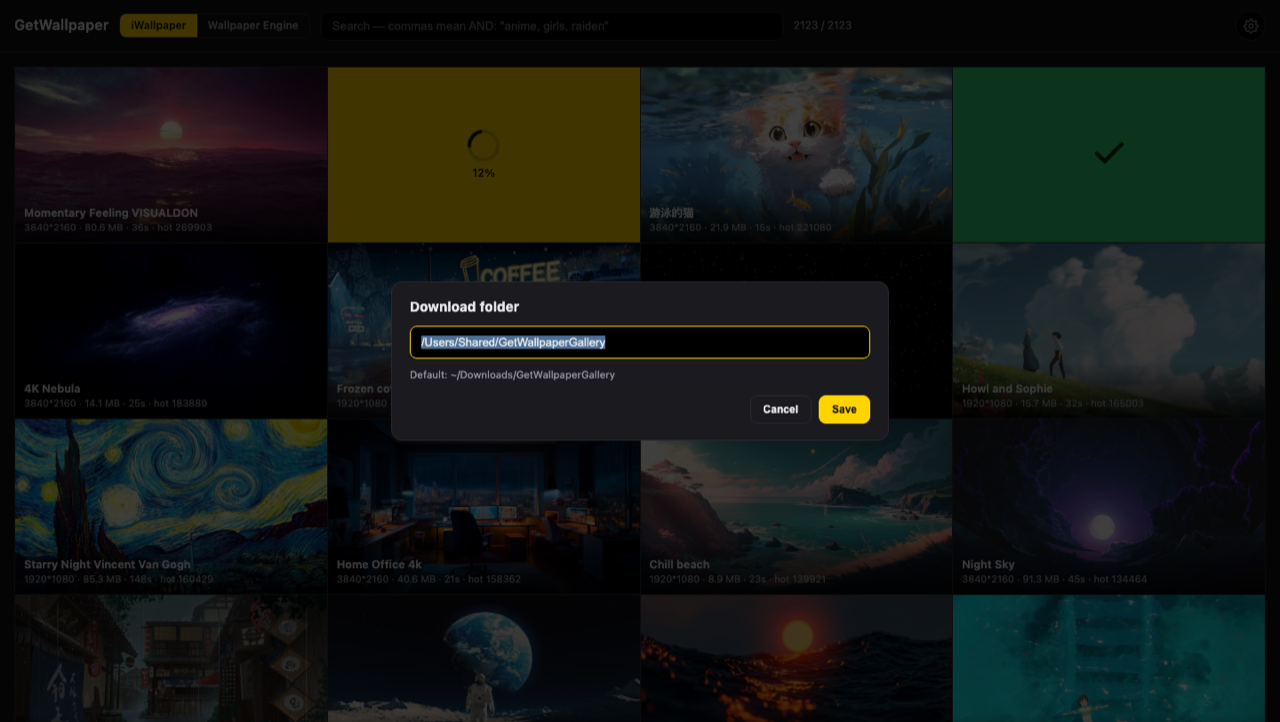
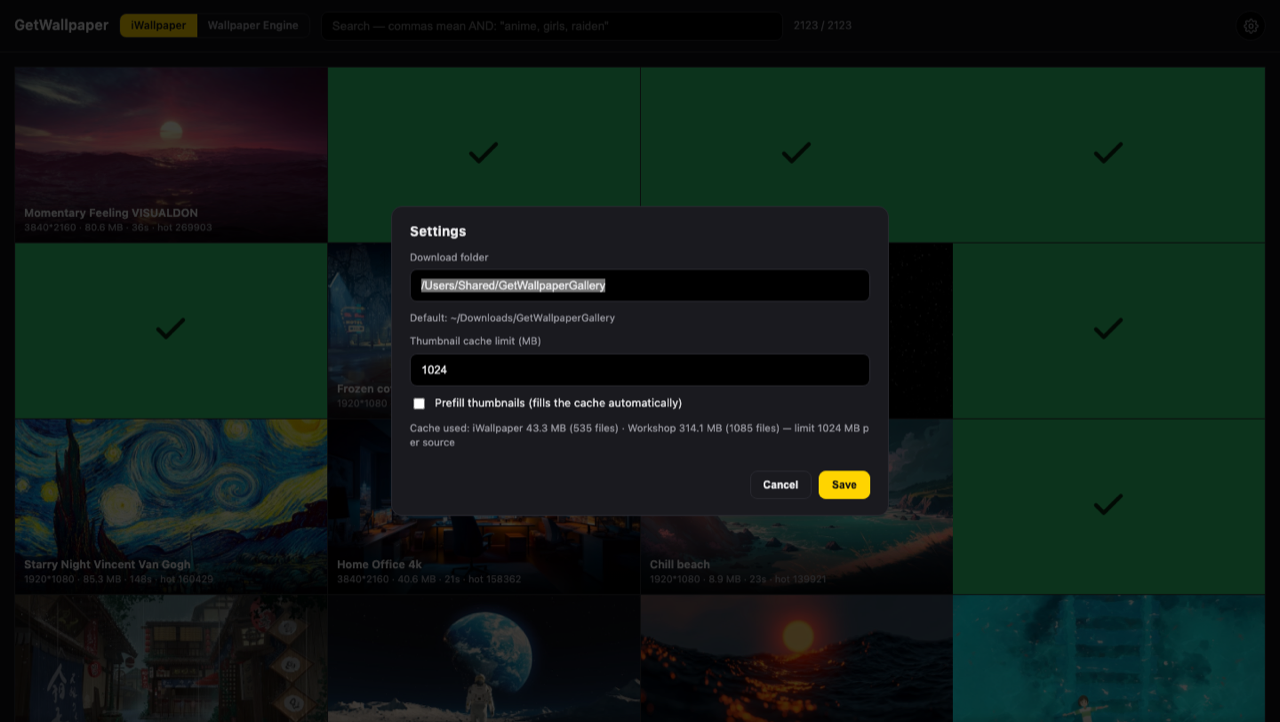
Settings: thumbnail cache limit + background prefill; README (v0.2.0)

diff --git a/getw/webui.py b/getw/webui.py
@@ -94,6 +94,9 @@ def _load_settings():
 SETTINGS = _load_settings()
 DOWNLOAD_ROOT = os.path.abspath(os.path.expanduser(
     SETTINGS.get("download_root") or DEFAULT_DOWNLOAD_ROOT))
+THUMB_CAP_MB = max(64, int(SETTINGS.get("thumb_cap_mb") or 1024))
+THUMB_CAP = THUMB_CAP_MB * 1024 * 1024
+PREFILL_ENABLED = bool(SETTINGS.get("prefill_thumbs"))
 
 
 def ensure_download_root():
@@ -112,18 +115,145 @@ def set_download_root(path):
     os.remove(probe)
     DOWNLOAD_ROOT = path
     SETTINGS["download_root"] = path
+    _save_settings()
+    return path
+
+
+def _save_settings():
     tmp = SETTINGS_PATH + ".tmp"
     with open(tmp, "w") as fh:
         json.dump(SETTINGS, fh, indent=1)
     os.replace(tmp, SETTINGS_PATH)
-    return path
 
+
+def _dir_stats(path):
+    total = count = 0
+    try:
+        with os.scandir(path) as it:
+            for entry in it:
+                try:
+                    if entry.is_file():
+                        count += 1
+                        total += entry.stat().st_size
+                except OSError:
+                    pass
+    except OSError:
+        pass
+    return {"mb": round(total / 1e6, 1), "count": count}
+
+
+PF = {"running": False, "done": 0, "total": 0, "source": "", "error": None}
+_PF_LOCK = threading.Lock()
+
+
+def _pf_set(**kw):
+    with _PF_LOCK:
+        PF.update(kw)
+
+
+def _pf_active():
+    return PF.get("running") and SETTINGS.get("prefill_thumbs")
+
+
+def start_prefill():
+    with _PF_LOCK:
+        if PF.get("running"):
+            return dict(PF)
+        PF.update(running=True, done=0, total=0, source="iWallpaper",
+                  error=None)
+    threading.Thread(target=_prefill_worker, daemon=True).start()
+    return dict(PF)
+
+
+def stop_prefill():
+    _pf_set(running=False)
+
+
+def _prefill_worker():
+    from concurrent.futures import ThreadPoolExecutor
+
+    def fetch_iw(rec):
+        try:
+            fetch_thumbnail(rec["id"])
+        except Exception:
+            pass
+
+    def fetch_we(rec):
+        try:
+            we_source.thumbnail(rec["id"], rec["preview"])
+        except Exception:
+            pass
+
+    try:
+        _pf_set(source="iWallpaper", total=len(RECORDS), done=0)
+        for i in range(0, len(RECORDS), 16):
+            if not _pf_active():
+                return
+            if _dir_stats(THUMB_DIR)["mb"] * 1e6 >= THUMB_CAP:
+                break
+            batch = RECORDS[i:i + 16]
+            with ThreadPoolExecutor(max_workers=8) as pool:
+                list(pool.map(fetch_iw, batch))
+            _pf_set(done=min(len(RECORDS), PF.get("done", 0) + len(batch)))
+
+        items = we_source.catalog(rating="Everyone")
+        _pf_set(source="Wallpaper Engine", total=len(items), done=0)
+        for i in range(0, len(items), 16):
+            if not _pf_active():
+                return
+            if _dir_stats(we_source.THUMB_DIR)["mb"] * 1e6 >= THUMB_CAP:
+                break
+            batch = items[i:i + 16]
+            with ThreadPoolExecutor(max_workers=8) as pool:
+                list(pool.map(fetch_we, batch))
+            _pf_set(done=min(len(items), PF.get("done", 0) + len(batch)))
+    except Exception as exc:
+        _pf_set(error=str(exc))
+    finally:
+        _pf_set(running=False)
+
+
+def settings_payload():
+    return {
+        "download_root": DOWNLOAD_ROOT,
+        "default_root": DEFAULT_DOWNLOAD_ROOT,
+        "thumb_cap_mb": THUMB_CAP_MB,
+        "prefill_thumbs": bool(SETTINGS.get("prefill_thumbs")),
+        "thumb_cache": {
+            "iw": _dir_stats(THUMB_DIR),
+            "we": _dir_stats(we_source.THUMB_DIR),
+        },
+        "prefill": dict(PF),
+    }
+
+
+def update_settings(payload):
+    global THUMB_CAP, THUMB_CAP_MB
+    if payload.get("download_root"):
+        set_download_root(payload["download_root"])
+    if payload.get("thumb_cap_mb") is not None:
+        mb = int(payload["thumb_cap_mb"])
+        if mb < 64:
+            raise ValueError("cache size must be at least 64 MB")
+        THUMB_CAP_MB = mb
+        THUMB_CAP = mb * 1024 * 1024
+        SETTINGS["thumb_cap_mb"] = mb
+        enforce_cache_cap(THUMB_DIR, THUMB_CAP)
+        enforce_cache_cap(we_source.THUMB_DIR, THUMB_CAP)
+    if payload.get("prefill_thumbs") is not None:
+        enabled = bool(payload["prefill_thumbs"])
+        SETTINGS["prefill_thumbs"] = enabled
+        if enabled:
+            start_prefill()
+        else:
+            stop_prefill()
+    _save_settings()
+    return settings_payload()
 
 os.makedirs(THUMB_DIR, exist_ok=True)
 os.makedirs(INDEX_DIR, exist_ok=True)
 ensure_download_root()
 
-THUMB_CAP = int(os.environ.get("THUMB_CAP_BYTES", 1 << 30))  # 1 GiB per cache
 _CACHE_LOCK = threading.Lock()
 
 
@@ -683,10 +813,15 @@ PAGE = r"""<!doctype html>
                 border:1px solid var(--line); border-radius:12px;
                 padding:18px 20px; display:flex; flex-direction:column; gap:10px; }
   #cfg h2 { margin:0; font-size:15px; }
-  #cfg input { width:100%; padding:10px 12px; border-radius:8px;
-               border:1px solid var(--line); background:#000; color:var(--txt);
-               outline:none; font-size:13px; }
+  #cfg input[type=text], #cfg input[type=number] { width:100%; padding:10px 12px;
+               border-radius:8px; border:1px solid var(--line); background:#000;
+               color:var(--txt); outline:none; font-size:13px; }
   #cfg input:focus { border-color:var(--yellow); }
+  #cfg .field { display:flex; flex-direction:column; gap:5px;
+                color:var(--dim); font-size:11.5px; }
+  #cfg .check { display:flex; align-items:center; gap:8px; color:var(--txt);
+                font-size:12.5px; }
+  #cfg .check input { accent-color: var(--yellow); }
   #cfg .hint { margin:0; color:var(--dim); font-size:11.5px; word-break:break-all; }
   #cfg .row { display:flex; justify-content:flex-end; gap:8px; margin-top:4px; }
   #cfg button { border:1px solid var(--line); background:transparent; color:var(--txt);
@@ -722,9 +857,16 @@ PAGE = r"""<!doctype html>
 </div>
 <div id="cfg" class="hidden">
   <div class="sheet">
-    <h2>Download folder</h2>
-    <input id="dlroot" type="text" spellcheck="false" autocomplete="off">
+    <h2>Settings</h2>
+    <label class="field"><span>Download folder</span>
+      <input id="dlroot" type="text" spellcheck="false" autocomplete="off"></label>
     <p class="hint" id="dlhint"></p>
+    <label class="field"><span>Thumbnail cache limit (MB)</span>
+      <input id="dlcap" type="number" min="64" step="64" value="1024"></label>
+    <label class="check"><input id="dlprefill" type="checkbox">
+      Prefill thumbnails (fills the cache automatically)</label>
+    <p class="hint" id="dlcache"></p>
+    <p class="hint" id="dlpf"></p>
     <div class="row">
       <button id="dlcancel">Cancel</button>
       <button id="dlsave" class="primary">Save</button>
@@ -739,7 +881,12 @@ const lb = document.getElementById('lb');
 const lbimg = document.getElementById('lbimg');
 const cfg = document.getElementById('cfg');
 const dlroot = document.getElementById('dlroot');
+const dlcap = document.getElementById('dlcap');
+const dlprefill = document.getElementById('dlprefill');
 const dlhint = document.getElementById('dlhint');
+const dlcache = document.getElementById('dlcache');
+const dlpf = document.getElementById('dlpf');
+let cfgTimer = null;
 const settingsBtn = document.getElementById('settings');
 const moreBar = document.getElementById('morebar');
 const moreLabel = document.getElementById('morelabel');
@@ -1184,29 +1331,55 @@ function closeLightbox() {
 document.getElementById('lbclose').addEventListener('click', closeLightbox);
 lb.addEventListener('click', e => { if (e.target === lb) closeLightbox(); });
 settingsBtn.addEventListener('click', openSettings);
-document.getElementById('dlcancel').addEventListener('click',
-  () => cfg.classList.add('hidden'));
+document.getElementById('dlcancel').addEventListener('click', closeSettings);
 document.getElementById('dlsave').addEventListener('click', saveSettings);
-cfg.addEventListener('click', e => { if (e.target === cfg) cfg.classList.add('hidden'); });
+cfg.addEventListener('click', e => { if (e.target === cfg) closeSettings(); });
 dlroot.addEventListener('keydown', e => { if (e.key === 'Enter') saveSettings(); });
 document.addEventListener('keydown', e => {
   if (e.key !== 'Escape') return;
-  if (!cfg.classList.contains('hidden')) { cfg.classList.add('hidden'); return; }
+  if (!cfg.classList.contains('hidden')) { closeSettings(); return; }
   closeLightbox();
 });
+
+function closeSettings() {
+  cfg.classList.add('hidden');
+  if (cfgTimer) { clearInterval(cfgTimer); cfgTimer = null; }
+}
+
+function updateCacheLines(j) {
+  const c = j.thumb_cache || { iw: { mb: 0, count: 0 }, we: { mb: 0, count: 0 } };
+  dlcache.textContent = 'Cache used: iWallpaper ' + c.iw.mb + ' MB (' +
+    c.iw.count + ' files) · Workshop ' + c.we.mb + ' MB (' + c.we.count +
+    ' files) — limit ' + j.thumb_cap_mb + ' MB per source';
+  const p = j.prefill || {};
+  dlpf.textContent = p.running
+    ? 'Prefilling ' + p.source + '… ' + (p.done || 0).toLocaleString() +
+      ' / ' + (p.total || 0).toLocaleString()
+    : (p.error ? 'Prefill error: ' + p.error : '');
+}
 
 async function openSettings() {
   try {
     const res = await fetch('/api/settings');
     const j = await res.json();
     dlroot.value = j.download_root || '';
+    dlcap.value = j.thumb_cap_mb || 1024;
+    dlprefill.checked = !!j.prefill_thumbs;
     dlhint.textContent = 'Default: ' + (j.default_root || '');
+    updateCacheLines(j);
   } catch (err) {
     dlhint.textContent = 'Could not read settings: ' + err;
   }
   cfg.classList.remove('hidden');
   dlroot.focus();
   dlroot.select();
+  if (cfgTimer) clearInterval(cfgTimer);
+  cfgTimer = setInterval(async () => {
+    try {
+      const r = await fetch('/api/settings');
+      if (r.ok) updateCacheLines(await r.json());
+    } catch (e) { /* ignore */ }
+  }, 1200);
 }
 
 async function saveSettings() {
@@ -1214,12 +1387,16 @@ async function saveSettings() {
     const res = await fetch('/api/settings', {
       method: 'POST',
       headers: { 'Content-Type': 'application/json' },
-      body: JSON.stringify({ download_root: dlroot.value })
+      body: JSON.stringify({
+        download_root: dlroot.value,
+        thumb_cap_mb: parseInt(dlcap.value, 10) || 1024,
+        prefill_thumbs: dlprefill.checked
+      })
     });
     let j = {};
     try { j = await res.json(); } catch (e) { /* ignore */ }
     if (!res.ok || !j.ok) throw new Error(j.error || ('HTTP ' + res.status));
-    cfg.classList.add('hidden');
+    closeSettings();
     load(source);
   } catch (err) {
     dlhint.textContent = 'Error: ' + err.message;
@@ -1313,10 +1490,9 @@ class Handler(BaseHTTPRequestHandler):
                 self._send(200, json.dumps(fill_status(rating)),
                            "application/json", [("Cache-Control", "no-store")])
             elif path == "/api/settings":
-                self._send(200, json.dumps({
-                    "download_root": DOWNLOAD_ROOT,
-                    "default_root": DEFAULT_DOWNLOAD_ROOT
-                }), "application/json", [("Cache-Control", "no-store")])
+                self._send(200, json.dumps(settings_payload()),
+                           "application/json",
+                           [("Cache-Control", "no-store")])
             elif path.startswith("/thumb/"):
                 self._thumb(path[len("/thumb/"):])
             elif path.startswith("/download/"):
@@ -1361,7 +1537,7 @@ class Handler(BaseHTTPRequestHandler):
         try:
             length = int(self.headers.get("Content-Length") or 0)
             payload = json.loads(self.rfile.read(length) or b"{}")
-            new_root = set_download_root(payload.get("download_root") or "")
+            result = update_settings(payload)
         except ValueError as exc:
             self._send(400, json.dumps({"ok": False, "error": str(exc)}),
                        "application/json")
@@ -1370,7 +1546,7 @@ class Handler(BaseHTTPRequestHandler):
             self._send(500, json.dumps({"ok": False, "error": str(exc)}),
                        "application/json")
             return
-        self._send(200, json.dumps({"ok": True, "download_root": new_root}),
+        self._send(200, json.dumps(dict(result, ok=True)),
                    "application/json")
 
     def _thumb(self, uuid):
@@ -1501,6 +1677,10 @@ class Handler(BaseHTTPRequestHandler):
 
 
 def start(port=8000, open_browser=True):
+    enforce_cache_cap(THUMB_DIR, THUMB_CAP)
+    enforce_cache_cap(we_source.THUMB_DIR, THUMB_CAP)
+    if SETTINGS.get("prefill_thumbs"):
+        start_prefill()
     server = ThreadingHTTPServer(("127.0.0.1", port), Handler)
     url = "http://127.0.0.1:%d/" % port
     print("GetWallpaper: %s" % url)

diff --git a/getw/we_source.py b/getw/we_source.py
@@ -53,9 +53,9 @@ DL_DIR = os.path.join(HERE, "we_downloads")
 CACHE_TTL = 6 * 3600
 _CACHE_MEM = {}
 PAGE_SIZE = 30
-MAX_PAGES = 1000
+MAX_PAGES = 1000  # Steam clamps every Workshop browse query to 1,000 pages
 FETCH_WORKERS = max(1, min(16, int(os.environ.get("GETW_FETCH_WORKERS", "10"))))
-THUMB_WIDTH = max(96, min(1024, int(os.environ.get("GETW_THUMB_WIDTH", "400"))))  # Steam clamps every Workshop browse query to 1,000 pages
+THUMB_WIDTH = max(96, min(1024, int(os.environ.get("GETW_THUMB_WIDTH", "400"))))
 UA = ("Mozilla/5.0 (Macintosh; Intel Mac OS X 10_15_7) "
       "AppleWebKit/537.36 (KHTML, like Gecko) Chrome/124.0 Safari/537.36")
 RES_RE = re.compile(r"(\d+)\s*[x\u00d7]\s*(\d+)")

diff --git a/getw/__init__.py b/getw/__init__.py
@@ -1,3 +1,3 @@
 """GetWallpaper — local web gallery for live wallpapers."""
 
-__version__ = "0.1.9"
+__version__ = "0.2.0"

diff --git a/README.md b/README.md
@@ -20,7 +20,8 @@ It runs entirely on your machine: one Python process, a browser tab on
 - Wallpaper Engine rating filter: Everyone (default), Questionable, Mature, All
 - Infinite scroll through Workshop pages, plus a background fill that indexes the whole Workshop slice (up to Steam's 30,000-item cap)
 - Configurable download folder; files are named after the wallpaper title
-- Thumbnail caches capped at 1 GiB per source, oldest evicted first
+- Adjustable thumbnail cache limit per source (default 1 GiB, oldest-first eviction)
+- Optional background prefill that fills the thumbnail cache automatically
 
 ![Wallpaper Engine source](docs/wallpaper-engine.png)
 
@@ -64,11 +65,17 @@ getw start     # opens http://127.0.0.1:8000
 
 ![Download progress](docs/progress.png)
 
-### Download folder
+### Settings
 
-Click the ⚙ icon in the top-right corner to change it. New folders are created
-and write-checked before saving; the choice is stored in `settings.json` in the
-app data directory.
+Click the ⚙ icon in the top-right corner:
+
+- **Download folder** — created and write-checked before saving
+- **Thumbnail cache limit (MB)** — per source; lowering it immediately evicts
+  the oldest thumbnails
+- **Prefill thumbnails** — warms the cache in the background until it reaches
+  the limit (iWallpaper first, then the Workshop catalogue)
+
+Settings are stored in `settings.json` in the app data directory.
 
 ![Settings dialog](docs/settings.png)
 
@@ -145,7 +152,8 @@ getw status                               # data dir, download folder, caches, S
 | `GETW_DATA_DIR` | Override the state directory (settings, indexes, caches) |
 | `WE_STEAM_ACCOUNT` | Steam account name for SteamCMD (default: auto-detected) |
 | `WE_WORKSHOP_DIR` | Existing `steamapps/workshop/content/431960` folder to copy from |
-| `THUMB_CAP_BYTES` | Thumbnail cache cap per source (default `1073741824` = 1 GiB) |
+| `GETW_FETCH_WORKERS` | Parallel Workshop page fetches during fill (default 10, max 16) |
+| `GETW_THUMB_WIDTH` | Workshop thumbnail width in pixels (default 400) |
 
 ## How it works
 
